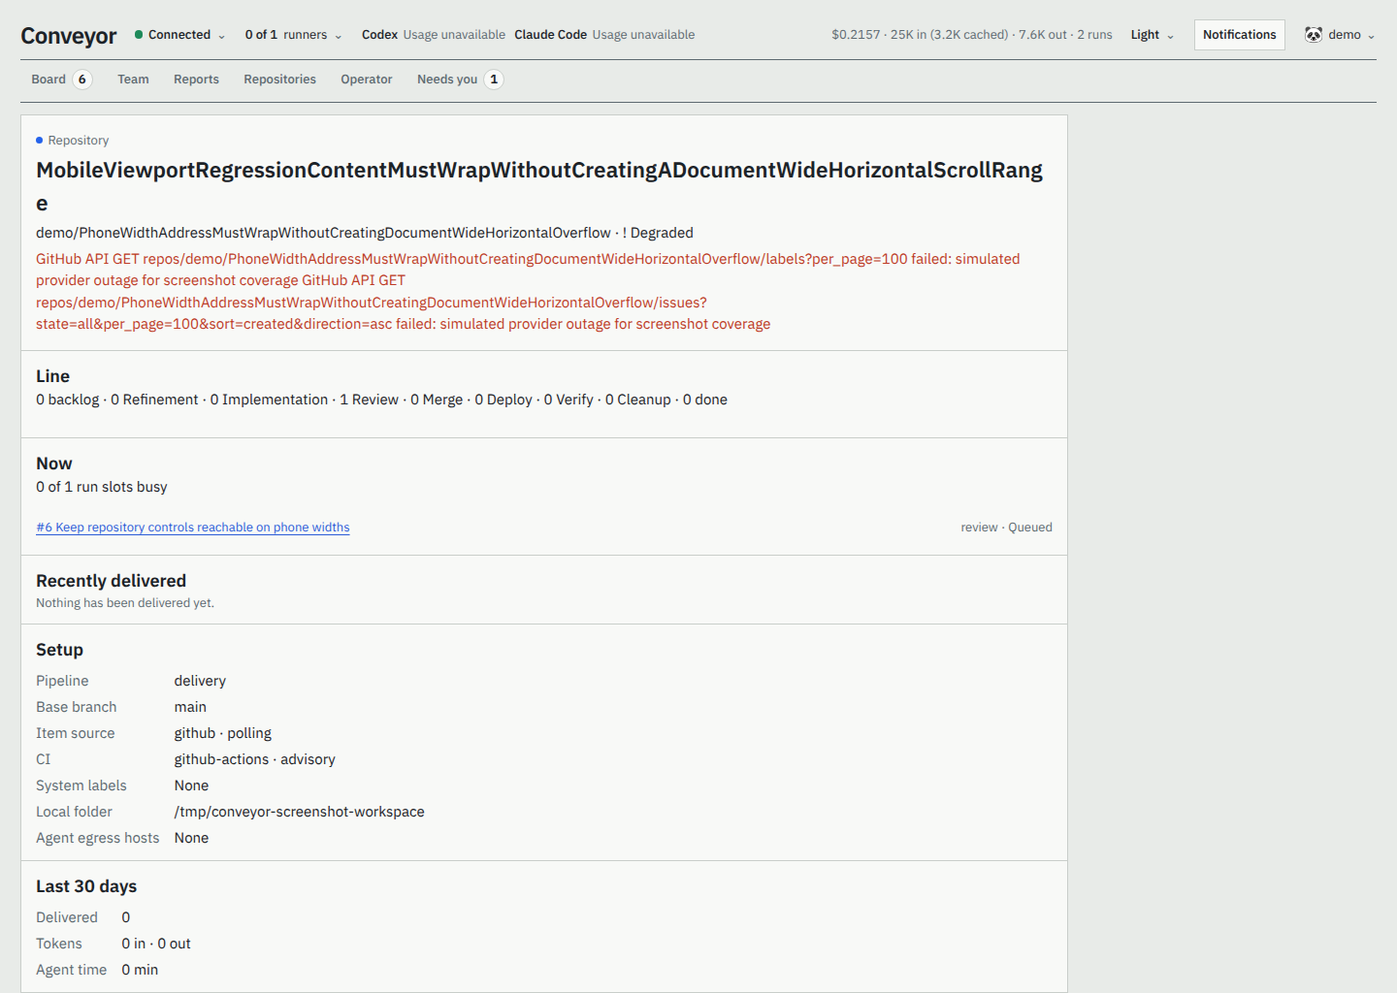
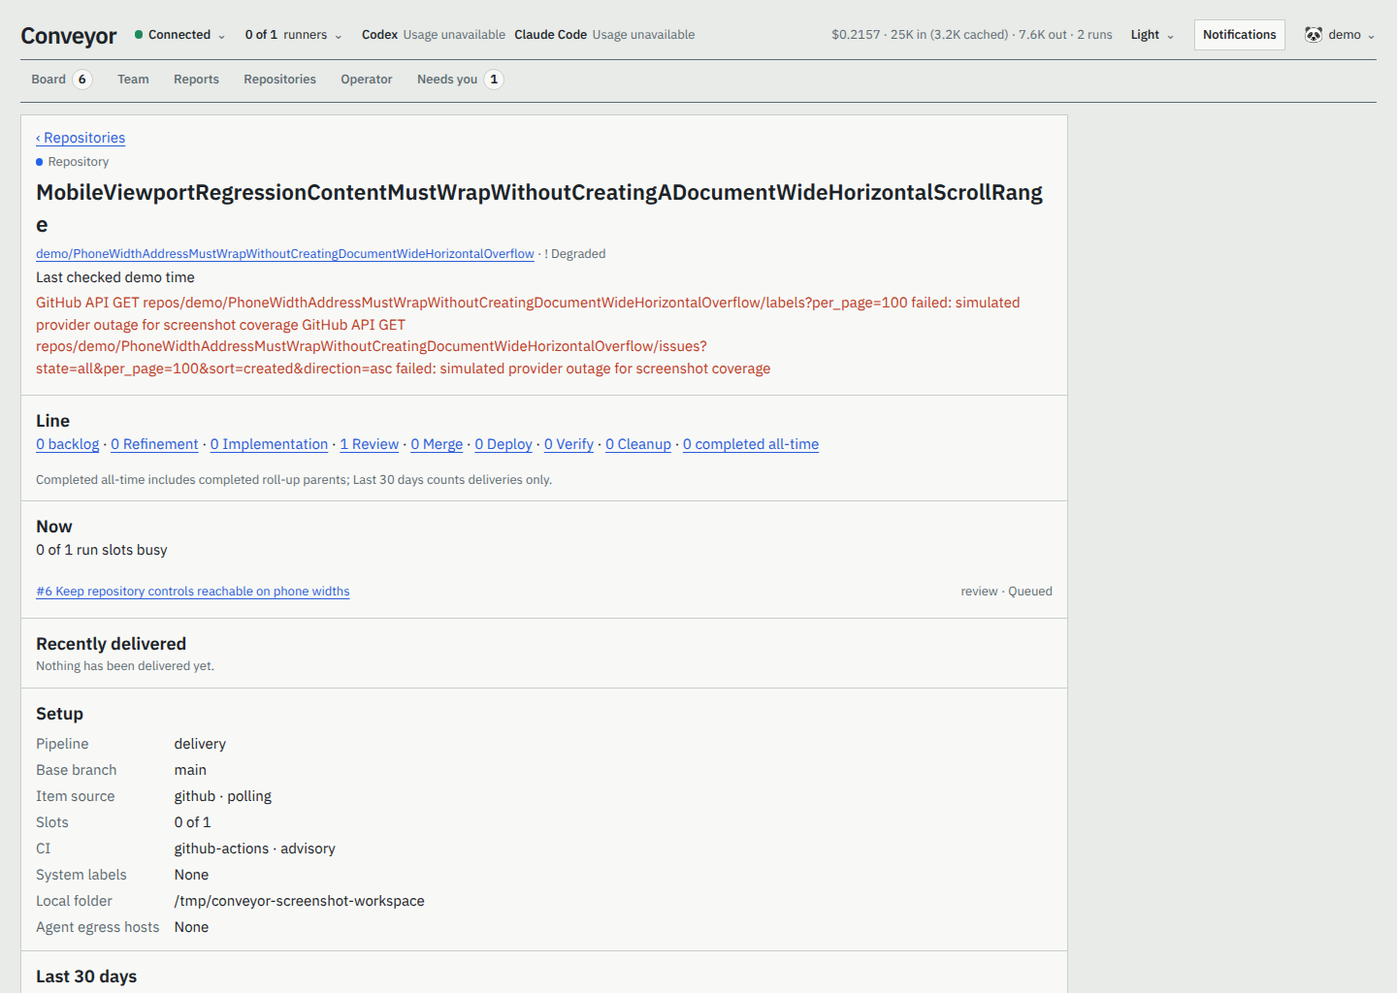
Repository page shows accurate setup, delivery counts, and links (#181)
* Fix repository page status and links

* Refresh repository last-checked status

Changed region(s): [[0.0, 0.125, 0.75, 1.0], [0.6875, 0.5938, 0.75, 0.625], [0.6875, 0.5312, 0.75, 0.5625]]

diff --git a/src/web/styles.ts b/src/web/styles.ts
@@ -55,10 +55,10 @@ body:has(dialog[open]){overflow:hidden}
 @media(max-width:760px){.settings-section--form{grid-template-columns:1fr}.settings-form{grid-template-columns:1fr}.settings-actions{grid-column:1}.account-table th:last-child,.account-table td:last-child{width:auto}}
 @media(max-width:760px){.total-usage{grid-column:2;grid-row:2;justify-self:start;min-width:0;max-width:100%;overflow:hidden;text-overflow:ellipsis}.tabs{min-width:0;margin-bottom:.7rem;max-width:100%;overflow-x:auto;overscroll-behavior-x:contain}.tab{flex:0 0 auto;padding:.55rem .65rem;white-space:nowrap}}
 .repository-badge{min-width:0;max-width:100%}.repository-name{min-width:0;overflow-wrap:anywhere}.section-heading>div,.details-header>div:first-child{min-width:0}.details-header h2,.report-heading h2{overflow-wrap:anywhere}.report>*{min-width:0}.report-filters nav{min-width:0;max-width:100%}.report-chip{max-width:100%;overflow-wrap:anywhere}
-.repository-badge{text-decoration:none}.repository-badge:hover{border-color:var(--steel)}.repositories{display:grid;gap:.65rem;margin:0 0 1rem}.repositories-heading{margin:0}.repositories-heading h2 a{color:inherit;text-decoration:none}.repositories-heading h2 a:hover{text-decoration:underline}.repository-grid{display:grid;grid-template-columns:repeat(auto-fit,minmax(15rem,1fr));gap:.55rem;margin:0;padding:0;list-style:none}.repository-card{display:grid;gap:.28rem;min-width:0;min-height:6.25rem;padding:.65rem .7rem;border:1px solid var(--line);border-left:4px solid var(--repo-color);background:var(--panel);color:var(--ink);text-decoration:none}.repository-card:hover{border-color:var(--steel);border-left-color:var(--repo-color);background:var(--concrete)}.repository-card--degraded{border-top-color:var(--stop);border-right-color:var(--stop);border-bottom-color:var(--stop)}.repository-card-heading{display:flex;align-items:center;gap:.4rem;min-width:0}.repository-card-heading strong{min-width:0;overflow-wrap:anywhere}.repository-health{margin-left:auto;font-weight:700}.repository-card--healthy .repository-health{color:var(--run)}.repository-card--degraded .repository-health,.repository-error{color:var(--stop)}.repository-address,.repository-status,.repository-empty{margin:0;color:var(--steel);font-size:var(--text-sm);overflow-wrap:anywhere}.repository-status{color:var(--ink)}.repositories-show-all{justify-self:start;font-weight:500}.repository-detail{display:grid;max-width:72rem;gap:0;margin-bottom:1.5rem;border:1px solid var(--line);background:var(--panel)}.repository-detail>section,.repository-detail-header{padding:.8rem 1rem;border-bottom:1px solid var(--line)}.repository-detail>section:last-child{border-bottom:0}.repository-detail h2,.repository-detail h3{margin:0}.repository-detail h3{font-size:var(--text-lg)}.repository-detail-header h2{margin:.15rem 0}.repository-detail-header p{margin:.25rem 0}.repository-detail-header>p:first-child{display:flex;align-items:center;gap:.35rem;color:var(--steel);font-size:var(--text-sm)}.repository-items{display:grid;gap:.35rem;margin:.5rem 0 0;padding:0;list-style:none}.repository-items li{display:flex;flex-wrap:wrap;align-items:baseline;justify-content:space-between;gap:.35rem .8rem;padding:.4rem 0;border-top:1px solid var(--line);font-size:var(--text-sm)}.repository-items li:first-child{border-top:0}.repository-items span,.repository-items time{color:var(--steel)}.repository-facts{display:grid;grid-template-columns:max-content minmax(0,1fr);gap:.3rem 1rem;margin:.5rem 0 0}.repository-facts dt{color:var(--steel)}.repository-facts dd{margin:0;overflow-wrap:anywhere}
+.repository-badge{text-decoration:none}.repository-badge:hover{border-color:var(--steel)}.repositories{display:grid;gap:.65rem;margin:0 0 1rem}.repositories-heading{margin:0}.repositories-heading h2 a{color:inherit;text-decoration:none}.repositories-heading h2 a:hover{text-decoration:underline}.repository-grid{display:grid;grid-template-columns:repeat(auto-fit,minmax(15rem,1fr));gap:.55rem;margin:0;padding:0;list-style:none}.repository-card{display:grid;gap:.28rem;min-width:0;min-height:6.25rem;padding:.65rem .7rem;border:1px solid var(--line);border-left:4px solid var(--repo-color);background:var(--panel);color:var(--ink);text-decoration:none}.repository-card:hover{border-color:var(--steel);border-left-color:var(--repo-color);background:var(--concrete)}.repository-card--degraded{border-top-color:var(--stop);border-right-color:var(--stop);border-bottom-color:var(--stop)}.repository-card-heading{display:flex;align-items:center;gap:.4rem;min-width:0}.repository-card-heading strong{min-width:0;overflow-wrap:anywhere}.repository-health{margin-left:auto;font-weight:700}.repository-card--healthy .repository-health{color:var(--run)}.repository-card--degraded .repository-health,.repository-error{color:var(--stop)}.repository-address,.repository-status,.repository-empty{margin:0;color:var(--steel);font-size:var(--text-sm);overflow-wrap:anywhere}.repository-status{color:var(--ink)}.repositories-show-all{justify-self:start;font-weight:500}.repository-detail{display:grid;max-width:72rem;gap:0;margin-bottom:1.5rem;border:1px solid var(--line);background:var(--panel)}.repository-detail>section,.repository-detail-header{padding:.8rem 1rem;border-bottom:1px solid var(--line)}.repository-detail>section:last-child{border-bottom:0}.repository-detail h2,.repository-detail h3{margin:0}.repository-detail h3{font-size:var(--text-lg)}.repository-detail-header h2{margin:.15rem 0}.repository-detail-header p{margin:.25rem 0}.repository-detail-header>.repository-detail-kind{display:flex;align-items:center;gap:.35rem;color:var(--steel);font-size:var(--text-sm)}.repository-items{display:grid;gap:.35rem;margin:.5rem 0 0;padding:0;list-style:none}.repository-items li{display:flex;flex-wrap:wrap;align-items:baseline;justify-content:space-between;gap:.35rem .8rem;padding:.4rem 0;border-top:1px solid var(--line);font-size:var(--text-sm)}.repository-items li:first-child{border-top:0}.repository-items span,.repository-items time{color:var(--steel)}.repository-facts{display:grid;grid-template-columns:max-content minmax(0,1fr);gap:.3rem 1rem;margin:.5rem 0 0}.repository-facts dt{color:var(--steel)}.repository-facts dd{margin:0;overflow-wrap:anywhere}
 @media(max-width:760px){.repository-grid{grid-template-columns:minmax(0,1fr)}.repository-card{min-width:0}.repository-detail>section,.repository-detail-header{padding:.7rem}.repository-facts{grid-template-columns:1fr;gap:.1rem}.repository-facts dd{margin-bottom:.35rem}}
 .account-popover>a[aria-current="page"]{background:var(--concrete);font-weight:600}
-.repository-detail-header{min-width:0}.repository-detail-header h2{overflow-wrap:anywhere}.repository-detail-header p,.repository-detail-header p span{overflow-wrap:anywhere}
+.repository-detail-header{min-width:0}.repository-detail-header h2{overflow-wrap:anywhere}.repository-detail-header p,.repository-detail-header p span,.repository-detail-header .repository-address a{overflow-wrap:anywhere}
 `;
 
 export const quotaHeaderCss = `

diff --git a/src/web/render.tsx b/src/web/render.tsx
@@ -552,20 +552,23 @@ function RepositoryDetail({ model }: { model: DashboardViewModel }) {
   const restricted = model.account?.role === "superuser"
     ? model.restrictedRepositories.find((candidate) => candidate.id === repository.id)
     : undefined;
-  const line = [`${repository.backlog} backlog`, ...repository.stages.map((stage) => `${stage.count} ${stage.name}`), `${repository.done} done`];
+  const addressUrl = safeUrl(repository.addressUrl);
+  const line = [`${repository.backlog} backlog`, ...repository.stages.map((stage) => `${stage.count} ${stage.name}`), `${repository.done} completed all-time`];
   return (
     <article class="repository-detail">
       <header class={`repository-detail-header repo-color-${repository.color}`}>
-        <p><i class="repository-dot" aria-hidden="true" /> Repository</p>
+        <a class="repository-back-link" href="/repositories">‹ Repositories</a>
+        <p class="repository-detail-kind"><i class="repository-dot" aria-hidden="true" /> Repository</p>
         <h2>{repository.id}</h2>
-        <p>{repository.address} · <span role="img" aria-label={repository.health === "healthy" ? "Healthy" : "Degraded"}>{repository.health === "healthy" ? "✓ Healthy" : "! Degraded"}</span></p>
+        <p class="repository-address">{addressUrl ? <a href={addressUrl}>{repository.address}</a> : repository.address} · <span role="img" aria-label={repository.health === "healthy" ? "Healthy" : "Degraded"}>{repository.health === "healthy" ? "✓ Healthy" : "! Degraded"}</span></p>
+        {repository.lastReconciledAt && <p class="repository-last-checked">Last checked <RelativeTime value={repository.lastReconciledAt} /></p>}
         {repository.error && <p class="repository-error">{repository.error}</p>}
       </header>
-      <section><h3>Line</h3><p>{line.join(" · ")}</p></section>
+      <section><h3>Line</h3><p>{line.map((count, index) => <Fragment key={count}>{index > 0 && " · "}<a href="/board">{count}</a></Fragment>)}</p><p class="repository-empty">Completed all-time includes completed roll-up parents; Last 30 days counts deliveries only.</p></section>
       <section><h3>Now</h3>{repository.items.length > 0 ? <><p>{repository.capacity.busy} of {repository.capacity.slots} run slots busy</p><ol class="repository-items">{repository.items.map((item) => <li key={item.number}><a href={issueHref(repository.id, item.number)}>#{item.number} {item.title}</a><span>{item.stage ?? "Backlog"} · {item.state}</span></li>)}</ol></> : <p class="repository-empty">No work is in progress.</p>}</section>
       <section><h3>Recently delivered</h3>{repository.deliveries.length > 0 ? <ol class="repository-items">{repository.deliveries.map((delivery) => <li key={delivery.number}><a href={issueHref(repository.id, delivery.number)}>#{delivery.number} {delivery.title}</a><time dateTime={delivery.deliveredAt} data-local-time>…</time></li>)}</ol> : <p class="repository-empty">Nothing has been delivered yet.</p>}</section>
-      <section><h3>Setup</h3><dl class="repository-facts"><dt>Pipeline</dt><dd>{repository.setup.pipeline}</dd><dt>Base branch</dt><dd>{repository.setup.baseBranch}</dd><dt>Item source</dt><dd>{repository.setup.itemProvider} · {repository.setup.itemSync}</dd><dt>CI</dt><dd>{repository.setup.ciProvider ?? "None"} · {repository.setup.ciMode}</dd><dt>System labels</dt><dd>{repository.setup.systemLabels.length > 0 ? repository.setup.systemLabels.join(", ") : "None"}</dd>{restricted && <><dt>Local folder</dt><dd>{restricted.folder}</dd><dt>Agent egress hosts</dt><dd>{restricted.agentEgressHosts.length > 0 ? restricted.agentEgressHosts.join(", ") : "None"}</dd></>}</dl></section>
-      <section><h3>Last 30 days</h3><dl class="repository-facts"><dt>Delivered</dt><dd>{repository.report30d.delivered}</dd><dt>Tokens</dt><dd>{repository.report30d.inputTokens.toLocaleString()} in · {repository.report30d.outputTokens.toLocaleString()} out</dd><dt>Agent time</dt><dd>{Math.round(repository.report30d.agentMs / 60_000).toLocaleString()} min</dd></dl></section>
+      <section><h3>Setup</h3><dl class="repository-facts"><dt>Pipeline</dt><dd>{repository.setup.pipeline}</dd><dt>Base branch</dt><dd>{repository.setup.baseBranch}</dd><dt>Item source</dt><dd>{repository.setup.itemProvider} · {repository.setup.itemSync}</dd><dt>Slots</dt><dd>{repository.capacity.busy} of {repository.capacity.slots}</dd><dt>CI</dt><dd>{repository.setup.ciProvider ?? "None"} · {repository.setup.ciMode}</dd><dt>System labels</dt><dd>{repository.setup.systemLabels.length > 0 ? repository.setup.systemLabels.join(", ") : "None"}</dd>{restricted && <><dt>Local folder</dt><dd>{restricted.folder}</dd><dt>Agent egress hosts</dt><dd>{restricted.agentEgressHosts.length > 0 ? restricted.agentEgressHosts.join(", ") : "None"}</dd></>}</dl></section>
+      <section><h3>Last 30 days</h3><a href={`/reports/${encodeURIComponent(repository.id)}?period=30d`}>Full report →</a><dl class="repository-facts"><dt>Delivered</dt><dd>{repository.report30d.delivered}</dd><dt>Tokens</dt><dd>{repository.report30d.inputTokens.toLocaleString()} in · {repository.report30d.outputTokens.toLocaleString()} out</dd><dt>Agent time</dt><dd>{Math.round(repository.report30d.agentMs / 60_000).toLocaleString()} min</dd></dl></section>
     </article>
   );
 }

diff --git a/tests/app/repository-summary.test.ts b/tests/app/repository-summary.test.ts
@@ -79,6 +79,9 @@ async function world() {
     run(`run-${number}`, id, "succeeded", at, number === 14 ? 100 : 0, number === 14 ? 50 : 0);
   }
   issue("imported", "alpha", 15, "done", "review");
+  issue("imported-child", "alpha", 21, "done", "review");
+  delivery("delivery-imported-child", "imported-child", "2026-10-15T12:00:00.000Z");
+  store.replaceRelationships("imported-child", { parentId: "imported", siblingOrder: 1 }, []);
   issue("unconfigured", "unconfigured", 99, "done", "review");
   delivery("unconfigured-delivery", "unconfigured", "2026-10-19T12:00:00.000Z");
   return store;
@@ -97,10 +100,11 @@ describe("buildRepositorySummaries", () => {
     const alpha = summaries.repositories[0]!;
     expect(alpha).toMatchObject({
       address: "owner/alpha", color: 1, health: "degraded",
+      addressUrl: "https://github.com/owner/alpha",
       error: "Webhook setup failed\nwith a detailed explanation\nLatest reconciliation failed",
       errorSummary: "Webhook setup failed with a detailed explanation Latest reconciliation failed",
       lastReconciledAt: "2026-10-20T00:00:00.000Z",
-      backlog: 1, done: 12,
+      backlog: 1, done: 13,
       stages: [
         { id: "implementation", name: "Implementation", count: 2 },
         { id: "review", name: "Code review", count: 2 },
@@ -110,7 +114,7 @@ describe("buildRepositorySummaries", () => {
         pipeline: "delivery", baseBranch: "trunk", itemProvider: "github", itemSync: "webhook",
         ciProvider: "github-actions", ciMode: "required", systemLabels: ["conveyor", "managed"],
       },
-      report30d: { delivered: 11, inputTokens: 100, outputTokens: 50, agentMs: 3_600_000 },
+      report30d: { delivered: 12, inputTokens: 100, outputTokens: 50, agentMs: 3_600_000 },
     });
     expect(alpha.items).toEqual([
       { number: 1, title: "Item 1", stage: "implementation", state: "Running" },
@@ -123,7 +127,7 @@ describe("buildRepositorySummaries", () => {
     expect(alpha.items.map((item) => item.number)).not.toContain(19);
     expect(alpha.items.map((item) => item.number)).not.toContain(20);
     expect(alpha.deliveries).toHaveLength(10);
-    expect(alpha.deliveries[0]).toMatchObject({ number: 14, deliveredAt: "2026-10-14T12:00:00.000Z" });
+    expect(alpha.deliveries[0]).toMatchObject({ number: 21, deliveredAt: "2026-10-15T12:00:00.000Z" });
     expect(alpha.deliveries.some((delivery) => delivery.number === 15)).toBeFalse();
     expect(summaries.repositories[1]).toMatchObject({ health: "healthy", backlog: 0, done: 0, items: [], deliveries: [], color: 2 });
   });
@@ -141,6 +145,15 @@ describe("buildRepositorySummaries", () => {
 
     expect(summary("ci.await")?.capacity).toEqual({ busy: 0, slots: 2 });
     expect(summary("agent.run")?.capacity).toEqual({ busy: 1, slots: 2 });
+  });
+
+  test("counts a completed roll-up parent without a delivery as all-time completed", async () => {
+    const store = await world();
+    const alpha = buildRepositorySummaries({ store, config, now: NOW }).repositories[0]!;
+
+    expect(store.listChildren("imported")).toEqual([{ issueId: "imported-child", siblingOrder: 1 }]);
+    expect(alpha.done).toBe(alpha.report30d.delivered + 1);
+    expect(alpha.deliveries.some((delivery) => delivery.number === 15)).toBeFalse();
   });
 
   test("keeps restricted setup facts and secrets out of the ordinary summary without provider calls or store changes", async () => {
@@ -242,21 +255,23 @@ describe("buildRepositorySummaries", () => {
     expect(degraded.revision).not.toBe(updated.revision);
     expect(await dependencies.getDashboardRevision()).toBe(degraded.revision);
     expect(degraded.repositories.find((repository) => repository.id === "alpha")?.health).toBe("degraded");
+    await Bun.sleep(2);
+    await service.reconcileAll();
+    expect(await dependencies.getDashboardRevision()).not.toBe(degraded.revision);
     expect(degraded.systemWarnings).toEqual([]);
     const degradedHtml = renderDashboard(degraded);
     expect(degradedHtml).toContain("provider access is forbidden");
     expect(degradedHtml).not.toContain("System attention");
   });
 
-  test("reports webhook sync whenever the public webhook endpoint is configured", async () => {
+  test("reports sync mode from the configured item provider", async () => {
     const store = await world();
-    const manuallyConfigured = {
+    const pollingSource = {
       ...config,
       sources: { github: { ...config.sources.github, autoConfigureWebhook: false } },
     } as ConveyorConfig;
-    const pollingOnly = { ...config, web: {} } as ConveyorConfig;
 
-    expect(buildRepositorySummaries({ store, config: manuallyConfigured, now: NOW }).repositories[0]!.setup.itemSync).toBe("webhook");
-    expect(buildRepositorySummaries({ store, config: pollingOnly, now: NOW }).repositories[0]!.setup.itemSync).toBe("polling");
+    expect(buildRepositorySummaries({ store, config: pollingSource, now: NOW }).repositories[0]!.setup.itemSync).toBe("polling");
+    expect(buildRepositorySummaries({ store, config, now: NOW }).repositories[0]!.setup.itemSync).toBe("webhook");
   });
 });

diff --git a/tests/web/render.test.ts b/tests/web/render.test.ts
@@ -489,6 +489,7 @@ describe("renderDashboard", () => {
   test("renders the ordered Board strip and repository list without a horizontal phone layout", () => {
     const summary = (id: string, health: "healthy" | "degraded", items: DashboardViewModel["repositories"][number]["items"], errorSummary: string | null = null) => ({
       id, address: `owner/${id}`, color: 1, health, error: errorSummary, errorSummary,
+      addressUrl: `https://github.com/owner/${id}`, lastReconciledAt: null,
       backlog: 1, stages: [{ id: "implementation", name: "Implementation", count: 1 }], done: 2, items,
       deliveries: [], capacity: { busy: 1, slots: 2 },
       setup: { pipeline: "delivery", baseBranch: "main", itemProvider: "github", itemSync: "webhook" as const, ciProvider: "github-actions", ciMode: "required" as const, systemLabels: ["conveyor"] },
@@ -525,6 +526,7 @@ describe("renderDashboard", () => {
     const repository = {
       id: "space/name", address: "owner/space-name", color: 2, health: "degraded" as const,
       error: "The full reconciliation error", errorSummary: "Reconciliation failed", backlog: 4,
+      addressUrl: "https://github.com/owner/space-name", lastReconciledAt: "2026-10-01T00:00:00.000Z",
       stages: [{ id: "implementation", name: "Implementation", count: 2 }], done: 8,
       items: [{ number: 7, title: "Current item", stage: "implementation", state: "Running" as const }],
       deliveries: [{ number: 6, title: "Delivered item", deliveredAt: "2026-10-01T00:00:00.000Z" }],
@@ -536,12 +538,31 @@ describe("renderDashboard", () => {
     const reader = renderDashboard({ ...base, account: { id: "reader", username: "reader", role: "user", avatar: "🦊" } });
     expect(reader).toContain("The full reconciliation error");
     expect(reader).toContain('href="/issues/space%2Fname/7"');
+    expect(reader).toContain('href="/repositories"');
+    expect(reader).toContain("‹ Repositories");
+    expect(reader).toContain('href="https://github.com/owner/space-name"');
+    expect(reader).toContain('data-relative-time="true">recently</time>');
+    expect(reader).toContain("Last checked");
+    expect(reader).toContain("Slots");
+    expect(reader).toContain("1 of 2");
+    expect(reader).toContain('href="/board">4 backlog</a>');
+    expect(reader).toContain('href="/board">2 Implementation</a>');
+    expect(reader).toContain('href="/board">8 completed all-time</a>');
+    expect(reader).toContain("Completed all-time includes completed roll-up parents; Last 30 days counts deliveries only.");
+    expect(reader).toContain('href="/reports/space%2Fname?period=30d"');
+    expect(reader).toContain("Full report →");
     for (const heading of ["Line", "Now", "Recently delivered", "Setup", "Last 30 days"]) expect(reader).toContain(`<h3>${heading}</h3>`);
     expect(reader).not.toContain("/sentinel/local-folder");
     expect(reader).not.toContain("sentinel.egress.example");
     const superuser = renderDashboard({ ...base, account: { id: "admin", username: "admin", role: "superuser", avatar: "🦊" } });
     expect(superuser).toContain("/sentinel/local-folder");
     expect(superuser).toContain("sentinel.egress.example");
+
+    const unreconciled = renderDashboard({ ...base, repositories: [{ ...repository, lastReconciledAt: null }] });
+    expect(unreconciled).not.toContain("Last checked");
+
+    const idle = renderDashboard({ ...base, repositories: [{ ...repository, capacity: { busy: 0, slots: 2 } }] });
+    expect(idle).toContain("<dt>Slots</dt><dd>0 of 2</dd>");
   });
 
   test("renders legacy string choices and an actionable error instead of an empty answer form", () => {

diff --git a/src/app/repository-summary.ts b/src/app/repository-summary.ts
@@ -25,6 +25,7 @@ export interface RepositoryDeliverySummary {
 export interface RepositorySummary {
   id: string;
   address: string;
+  addressUrl: string | null;
   color: number;
   health: "healthy" | "degraded";
   error: string | null;
@@ -149,6 +150,7 @@ export function buildRepositorySummaries(input: BuildRepositorySummariesInput): 
     // repository records. Keep this derived, read-only view safe while configuration
     // loading remains responsible for enforcing the complete production schema.
     const source = config.sources?.[repository.source];
+    const codeHost = config.codeHosts?.[repository.codeHost ?? repository.source] ?? source;
     const ci = repository.ci ?? { mode: "disabled" as const };
     const ciProvider = ci.provider ? config.ci?.[ci.provider]?.type ?? null : null;
     const report = reportByRepository.get(id)!;
@@ -156,6 +158,7 @@ export function buildRepositorySummaries(input: BuildRepositorySummariesInput): 
     return {
       id,
       address: repository.address,
+      addressUrl: codeHost?.type === "github" ? `https://github.com/${repository.address}` : null,
       color: (index % 8) + 1,
       health: error === null ? "healthy" : "degraded",
       error,
@@ -188,7 +191,7 @@ export function buildRepositorySummaries(input: BuildRepositorySummariesInput): 
         pipeline: repository.pipeline,
         baseBranch: repository.baseBranch,
         itemProvider: source?.type ?? repository.source,
-        itemSync: source?.type === "github" && config.web.publicUrl ? "webhook" : "polling",
+        itemSync: source?.type === "github" && source.autoConfigureWebhook && config.web.publicUrl ? "webhook" : "polling",
         ciProvider,
         ciMode: ci.mode,
         systemLabels: [...(repository.systemLabels ?? [])],

diff --git a/tests/web/server.test.ts b/tests/web/server.test.ts
@@ -462,7 +462,8 @@ describe("createWebHandler", () => {
   test("serves repository pages with encoded ids and keeps unknown or malformed ids in the dashboard shell", async () => {
     const repository = {
       id: "space/name", address: "owner/space-name", color: 1, health: "healthy" as const,
-      error: null, errorSummary: null, backlog: 0, stages: [], done: 0, items: [], deliveries: [],
+      addressUrl: "https://github.com/owner/space-name", error: null, errorSummary: null, lastReconciledAt: null,
+      backlog: 0, stages: [], done: 0, items: [], deliveries: [],
       capacity: { busy: 0, slots: 1 },
       setup: { pipeline: "delivery", baseBranch: "main", itemProvider: "github", itemSync: "polling" as const, ciProvider: null, ciMode: "disabled" as const, systemLabels: [] },
       report30d: { delivered: 0, inputTokens: 0, outputTokens: 0, agentMs: 0 },

diff --git a/src/app/service.ts b/src/app/service.ts
@@ -2423,9 +2423,9 @@ export class ConveyorService {
     });
   }
 
-  /** Matches the event stream revision to dashboard facts without volatile report timestamps. */
+  /** Matches the event stream revision to displayed repository facts, excluding volatile report timestamps. */
   private dashboardRevision(repositorySummaries = this.repositorySummaries()): string {
-    const repositoryFacts = repositorySummaries.repositories.map(({ id, health, error }) => ({ id, health, error }));
+    const repositoryFacts = repositorySummaries.repositories.map(({ id, health, error, lastReconciledAt }) => ({ id, health, error, lastReconciledAt }));
     const repositoryDigest = createHash("sha256").update(JSON.stringify(repositoryFacts)).digest("hex");
     return `${this.store.dashboardRevision()}|repositories:${repositoryDigest}`;
   }

diff --git a/src/web/types.ts b/src/web/types.ts
@@ -206,10 +206,12 @@ export interface RepositoryDashboardItem {
 export interface RepositoryDashboardSummary {
   id: string;
   address: string;
+  addressUrl: string | null;
   color: number;
   health: "healthy" | "degraded";
   error: string | null;
   errorSummary: string | null;
+  lastReconciledAt: string | null;
   backlog: number;
   stages: readonly { id: string; name: string; count: number }[];
   done: number;
